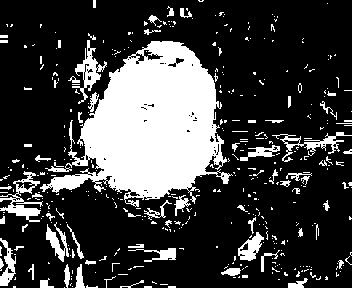
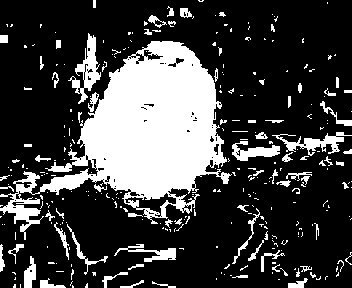
Make everything work

diff --git a/skin_ycbcr.py b/skin_ycbcr.py
@@ -499,7 +499,7 @@ def skin_detect(image_in: str, image_out: str):
   #CbS_i = CbS.astype(int)
   print(type(Cb.dtype))
   print(type(CbS.dtype))
-  mask6 = np.absolute(cv2.subtract(np.int8(Cb), np.int8(CbS))) <= J
+  mask6 = np.absolute(np.float64(Cb) - CbS).astype(np.uint8) <= J
   print('mask6')
   print(mask6.any())
   skinCond = np.logical_and(mask5, mask6)
